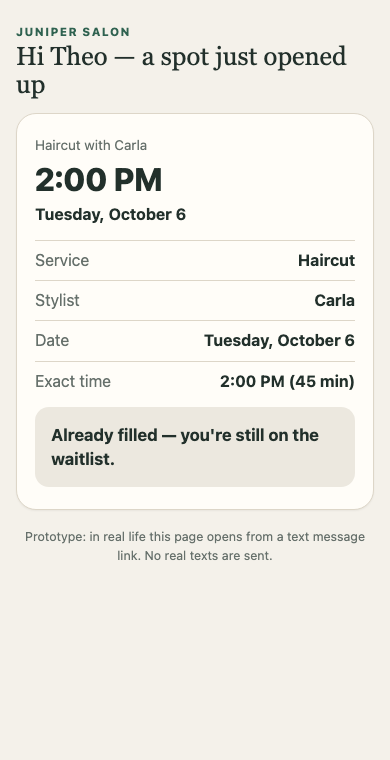
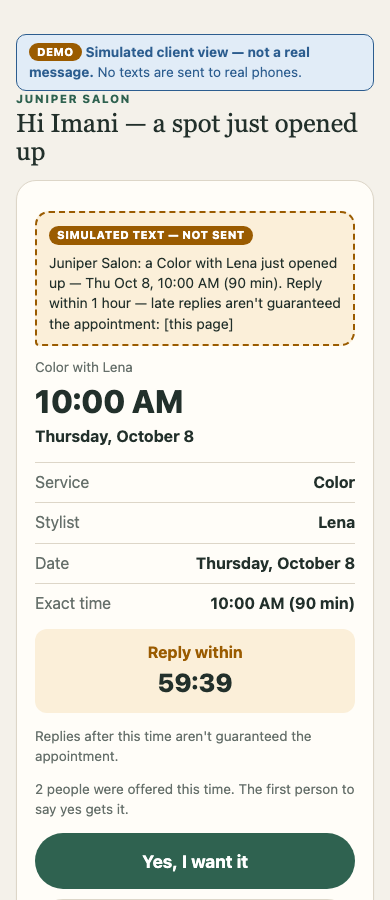
Label every simulated text so it can't be mistaken for a real message
Lena asked that texts be clearly marked during the demo. Every page now
has a Demo banner, the exact offer text is shown in a "Simulated text —
not sent" bubble on the staff card and the client page, and history
entries and Worker logs say the texts are simulated.

diff --git a/src/workflows.ts b/src/workflows.ts
@@ -256,7 +256,7 @@ export async function openingWorkflow(input: OpeningInput): Promise<OpeningState
       s.closedAt = Date.now();
       sendScope?.cancel(); // stop any text still being sent / retried
       log("cancelled", `Staff cancelled the opening${s.cancelReason ? ` (${s.cancelReason})` : ""}${heldFor ? ` — hold for ${heldFor} released` : ""}.`);
-      if (told.length) log("told_cancelled", `Told ${names(told)}: no longer available.`);
+      if (told.length) log("told_cancelled", `Simulated text to ${names(told)}: no longer available.`);
       return { ok: true, message: "Opening cancelled. Anyone holding an offer is told it's no longer available." };
     },
     {
@@ -478,7 +478,7 @@ export async function openingWorkflow(input: OpeningInput): Promise<OpeningState
     s.currentRound = { number: roundNo, offerIds: offers.map((o) => o.offerId) };
     log("sending", `Round ${roundNo}: sending simulated texts to ${names(offers)}.`);
 
-    let sent: { deliveredAt: number };
+    let sent: { deliveredAt: number; texts?: Record<string, string> };
     const scope = new CancellationScope();
     sendScope = scope;
     try {
@@ -508,6 +508,7 @@ export async function openingWorkflow(input: OpeningInput): Promise<OpeningState
       o.status = "live";
       o.sentAt = sentAt;
       o.deliveredAt = sent.deliveredAt;
+      o.smsText = sent.texts?.[o.offerId];
       o.deadline = deadline;
     }
     s.currentRound = { number: roundNo, offerIds: offers.map((o) => o.offerId), sentAt, deadline };
@@ -519,7 +520,7 @@ export async function openingWorkflow(input: OpeningInput): Promise<OpeningState
     const noReply = offers.filter((o) => o.status === "live");
     if (noReply.length) {
       noReply.forEach((o) => (o.status = "timed_out"));
-      log("timed_out", `No reply (timed out): ${names(noReply)}. They stay on the waitlist.`);
+      log("timed_out", `No reply (timed out): ${names(noReply)}. Simulated "offer expired" text sent; they stay on the waitlist.`);
       // Not awaited: the next round must not wait on (or race with) the expiry notice.
       background(quick.notifyTimedOut({ opening: s.opening, recipients: noReply.map(({ name, mobile }) => ({ name, mobile })) }));
     } else {
@@ -592,7 +593,7 @@ export async function openingWorkflow(input: OpeningInput): Promise<OpeningState
         ? `Staff booked ${offer.name} from their late yes — slot held for them.`
         : `${offer.name} said YES — slot held for them. Staff to confirm and update Square.`,
     );
-    if (others.length) log("told_filled", `Told ${names(others)}: already filled, still on the waitlist.`);
+    if (others.length) log("told_filled", `Simulated text to ${names(others)}: already filled, still on the waitlist.`);
   }
 
   function releaseHoldNow(by: "staff" | "auto", reason?: string) {

diff --git a/src/activities.ts b/src/activities.ts
@@ -22,6 +22,9 @@ import type {
   Suggestion,
 } from "./types";
 
+/** Every "text" in this prototype is only logged — this label makes that unmistakable. */
+const SIMULATED = "[SIMULATED TEXT — NOT SENT]";
+
 const APP_BASE_URL = process.env.APP_BASE_URL ?? `http://localhost:${process.env.PORT ?? 3000}`;
 
 async function waitlistHandle() {
@@ -64,28 +67,30 @@ export async function sendOfferTexts(input: {
   opening: OpeningInput;
   offers: OfferText[];
   simulateFailure: boolean;
-}): Promise<{ deliveredAt: number }> {
+}): Promise<{ deliveredAt: number; texts: Record<string, string> }> {
   const { attempt } = Context.current().info;
   if (input.simulateFailure && attempt === 1) {
     throw ApplicationFailure.retryable("Simulated SMS gateway hiccup on the first attempt", "SimulatedSmsFailure");
   }
   const { opening } = input;
+  const texts: Record<string, string> = {};
   for (const o of input.offers) {
     const text =
       `Juniper Salon: a ${opening.service} with ${opening.stylist} just opened up — ${formatSlot(opening.startsAt)} ` +
       `(${opening.durationMinutes} min). Reply within ${formatWindowSeconds(opening.replyWindowSeconds)} — ` +
       `late replies aren't guaranteed the appointment: ` +
       offerLink(opening.openingId, o.clientId, o.token);
-    log.info(`SMS to ${o.name} ${o.mobile} (attempt ${attempt}): ${text}`);
-    console.log(`[sms] SMS to ${o.name} ${o.mobile}: ${text}`);
+    texts[o.offerId] = text;
+    log.info(`${SIMULATED} to ${o.name} ${o.mobile} (attempt ${attempt}): ${text}`);
+    console.log(`${SIMULATED} to ${o.name} ${o.mobile}: ${text}`);
   }
-  return { deliveredAt: Date.now() };
+  return { deliveredAt: Date.now(), texts };
 }
 
 type Recipients = { opening: OpeningInput; recipients: { name: string; mobile: string }[] };
 
 function sms(recipients: Recipients["recipients"], text: string) {
-  for (const r of recipients) console.log(`[sms] SMS to ${r.name} ${r.mobile}: ${text}`);
+  for (const r of recipients) console.log(`${SIMULATED} to ${r.name} ${r.mobile}: ${text}`);
 }
 
 export async function notifyFilled({ opening, recipients }: Recipients): Promise<void> {
@@ -109,7 +114,7 @@ export async function notifyHoldReleased({ opening, recipients }: Recipients): P
 
 /** SIMULATED text to the salon phone, so Lena/Carla hear about it while they're with a client. */
 export async function notifyStaff({ text }: { opening: OpeningInput; text: string }): Promise<void> {
-  console.log(`[sms] SMS to salon phone (staff): Juniper refill: ${text} ${APP_BASE_URL}/`);
+  console.log(`${SIMULATED} to salon phone (staff): Juniper refill: ${text} ${APP_BASE_URL}/`);
 }
 
 /** Tell the waitlist Workflow this client is booked (first booking wins). */

diff --git a/public/app.js b/public/app.js
@@ -224,6 +224,13 @@ function renderApproval(id, s) {
     </div>`;
 }
 
+/** The exact offer text (link shortened), clearly marked as simulated — nothing is really sent. */
+function simText(offer) {
+  if (!offer?.smsText) return "";
+  const text = offer.smsText.replace(/https?:\/\/\S+/, "[offer link]");
+  return `<div class="sms-bubble"><span class="sim-label">Simulated text — not sent</span><p>${esc(text)}</p></div>`;
+}
+
 function renderOffering(id, s) {
   const round = s.currentRound;
   const roundOffers = round ? s.offers.filter((o) => round.offerIds.includes(o.offerId)) : [];
@@ -240,11 +247,12 @@ function renderOffering(id, s) {
             <span class="small muted">${o.status === "live" ? "No reply yet" : esc(o.status.replace("_", " "))}</span></span>
           <span class="row">
             ${o.status === "live" && o.deadline ? `<span class="countdown" data-deadline="${o.deadline}">${countdownText(o.deadline)}</span>` : ""}
-            ${o.status === "live" ? `<a class="btn secondary small" href="${offerUrl(id, o)}" target="_blank" rel="noopener">Open client offer</a>` : ""}
+            ${o.status === "live" ? `<a class="btn secondary small" href="${offerUrl(id, o)}" target="_blank" rel="noopener">Preview client's text</a>` : ""}
           </span>
         </div>`,
         )
         .join("")}
+      ${simText(roundOffers.find((o) => o.smsText))}
       ${round?.deadline ? `<p class="tiny muted" style="margin:6px 0 0">Reply by ${esc(clock(round.deadline))}${s.opening.fastDemo ? " · Fast demo (30-second window)" : ""}. First yes wins.</p>` : ""}
       <p class="small muted" style="margin:6px 0 0">Next up: ${nextUp.length ? esc(nextUp.join(", ")) : "nobody — this is the last round"}</p>
     </div>`;

diff --git a/tests/workflow.test.ts b/tests/workflow.test.ts
@@ -79,7 +79,7 @@ const mockActivities: typeof realActivities = {
   async sendOfferTexts({ opening, offers }) {
     if (gates.send) await gates.send;
     recorded.sent.push({ openingId: opening.openingId, clientIds: offers.map((o) => o.clientId) });
-    return { deliveredAt: Date.now() };
+    return { deliveredAt: Date.now(), texts: Object.fromEntries(offers.map((o) => [o.offerId, `SIM text for ${o.name}`])) };
   },
   async notifyFilled({ opening, recipients }) {
     recorded.filledNotices.push({ openingId: opening.openingId, names: recipients.map((r) => r.name) });
@@ -640,7 +640,8 @@ describe("sendOfferTexts activity (simulated SMS)", () => {
     const attempt1 = new MockActivityEnvironment({ attempt: 1 });
     await assert.rejects(attempt1.run(sendOfferTexts, { opening, offers: [offer], simulateFailure: true }), /Simulated SMS/);
     const attempt2 = new MockActivityEnvironment({ attempt: 2 });
-    const ok: { deliveredAt: number } = await attempt2.run(sendOfferTexts, { opening, offers: [offer], simulateFailure: true });
+    const ok: { deliveredAt: number; texts: Record<string, string> } = await attempt2.run(sendOfferTexts, { opening, offers: [offer], simulateFailure: true });
+    assert.match(ok.texts[offer.offerId], /late replies aren't guaranteed/);
     assert.equal(typeof ok.deliveredAt, "number");
   });
 });

diff --git a/public/styles.css b/public/styles.css
@@ -190,3 +190,10 @@ button.danger-solid { background: var(--danger); color: #fff; }
 .badge.danger { background: var(--danger-soft); color: var(--danger); }
 .danger-text { color: var(--danger); }
 .late-yes h3 { color: var(--warn); }
+
+/* ---------- simulated-text labelling (Lena: nobody should mistake these for real messages) ---------- */
+.sim-banner { position: sticky; top: 0; z-index: 5; border: 1px solid currentColor; }
+.sim-label { display: inline-block; padding: 1px 8px; border-radius: 999px; background: var(--warn); color: #fff; font-size: 0.7rem; font-weight: 800; letter-spacing: 0.04em; text-transform: uppercase; vertical-align: 1px; }
+.sms-bubble { margin: 8px 0 12px; padding: 10px 12px; border-radius: 14px 14px 14px 4px; border: 2px dashed var(--warn); background: var(--warn-soft); }
+.sms-bubble p { margin: 6px 0 0; font-size: 0.88rem; }
+@media (prefers-color-scheme: dark) { .sim-label { color: #1d1a14; } }

diff --git a/src/offerView.ts b/src/offerView.ts
@@ -16,6 +16,8 @@ export type ClientOfferView =
       durationMinutes: number;
       deadline?: number;
       fastDemo: boolean;
+      /** Exact wording of the simulated text that "brought" the client here. */
+      smsText?: string;
       /** How many people were offered this round (the "first yes wins" line only shows when > 1). */
       roundSize: number;
       canRespond: boolean;
@@ -38,6 +40,7 @@ export function clientOfferView(state: OpeningState, clientId: string, token: st
     durationMinutes: state.opening.durationMinutes,
     deadline: offer.deadline,
     fastDemo: state.opening.fastDemo,
+    smsText: offer.smsText,
     roundSize: state.offers.filter((o) => o.round === offer.round).length,
   };
   const done = (outcome: RespondOutcome | "filled_notice", message: string) => ({ ...base, canRespond: false, outcome, message });

diff --git a/public/offer.html b/public/offer.html
@@ -10,12 +10,13 @@
   </head>
   <body class="offer-page">
     <main>
+      <p class="sim-banner" role="note"><span class="sim-label">Demo</span> <strong>Simulated client view — not a real message.</strong> No texts are sent to real phones.</p>
       <p class="eyebrow">Juniper Salon</p>
       <h1 id="greeting">A spot just opened up</h1>
       <section class="offer-card" id="card" aria-live="polite">
         <p class="muted">Loading your offer…</p>
       </section>
-      <p class="demo-note">Prototype: in real life this page opens from a text message link. No real texts are sent.</p>
+      <p class="demo-note">Prototype: in real life this page would open from the text message link. No real texts are sent.</p>
     </main>
     <script src="/offer.js"></script>
   </body>

diff --git a/public/index.html b/public/index.html
@@ -22,7 +22,7 @@
         </div>
       </header>
 
-      <p class="sim-banner" role="note"><strong>Texts are simulated</strong> — nothing is sent to real phones. Use <em>Open client offer</em> on an opening to act as the client. Staff alerts are simulated too (see each opening's history).</p>
+      <p class="sim-banner" role="note"><span class="sim-label">Demo</span> <strong>Every text in this prototype is simulated — nothing is sent to real phones.</strong> Texts appear on screen marked <span class="sim-label">Simulated text</span>. Use <em>Preview client's text</em> to act as the client.</p>
 
       <section class="tiles" id="tiles" aria-label="Summary"></section>
 

diff --git a/public/offer.js b/public/offer.js
@@ -58,7 +58,11 @@ function render() {
   const expiredLocally = view.canRespond && left === 0;
   const message = lastResult?.message ?? view.message;
   const outcome = lastResult?.outcome ?? view.outcome;
+  const sms = view.smsText
+    ? `<div class="sms-bubble"><span class="sim-label">Simulated text — not sent</span><p>${esc(view.smsText.replace(/https?:\/\/\S+/, "[this page]"))}</p></div>`
+    : "";
   card.innerHTML = `
+    ${sms}
     <div class="muted small">${esc(view.service)} with ${esc(view.stylist)}</div>
     <div class="offer-time">${esc(time)}</div>
     <div><strong>${esc(date)}</strong></div>

diff --git a/src/types.ts b/src/types.ts
@@ -119,6 +119,8 @@ export type Offer = {
   status: OfferStatus;
   createdAt: number;
   deliveredAt?: number;
+  /** Exact wording of the SIMULATED offer text (nothing is really sent). */
+  smsText?: string;
   sentAt?: number;
   deadline?: number;
   respondedAt?: number;

diff --git a/README.md b/README.md
@@ -27,7 +27,7 @@ Press **Ctrl+C** to stop the app, and run `npm run stop` to stop Temporal. Tempo
 
 1. **Create an opening.** Click **Open form** and enter a Haircut with Lena later today, with the reply window set to **Fast demo: 30 seconds**.
 2. **Approve the matches.** The system suggests people who want that service, accept that stylist, and whose availability note roughly fits, earliest joiner first. Each note is shown exactly as staff wrote it, and anything the system can't interpret is marked **Check note**. Untick anyone, then click **Approve & text**. **Nothing is sent before approval.**
-3. **Reply as a client.** Click **Open client offer** to see the page a client would open from the text: service, stylist, date, exact time and a countdown, with **Yes, I want it** and **No thanks** buttons.
+3. **Reply as a client.** Click **Preview client's text** to see the page a client would open from the text: the text itself, then the service, stylist, date, exact time and a countdown, with **Yes, I want it** and **No thanks** buttons.
 4. **Race two yeses.** Open two clients' offers and accept both. The first yes **holds** the slot. The other client sees "Sorry, this time was just taken," and everyone else in that round is told it's filled and that they're still on the waitlist.
 5. **Confirm in Square.** The card now reads **Held for … — confirm in Square**. Click **Done — updated in Square**, or **Couldn't confirm — release hold** to move on to the next people. If nobody does either within **15 minutes**, the hold is released automatically.
 6. **Let it time out.** Leave a fast-demo round unanswered. The people in it are marked **No reply** and the next people are texted automatically. When nobody is left, the card turns red: **Nobody took it**, with **Keep trying** and **Leave it open** buttons.
@@ -55,6 +55,7 @@ Two other options: **Simulate first text attempt failing** shows a failed send b
 | If nobody takes it, she wants to know right away and then decide. | **Nobody took it** alert with **Keep trying** and **Leave it open**. |
 | Square stays the real calendar, and nothing books automatically. | A yes only *holds* the slot. Staff confirm and update Square themselves. |
 | If a hold can't be confirmed, release it and offer it to the next person, automatically after about 15 minutes. | **Release hold** button, plus an automatic release after 15 minutes. |
+| Simulated texts must be clearly labelled during the demo, so nobody mistakes them for real messages. | Every page has a **Demo** banner, and each message appears in a dashed bubble marked **Simulated text — not sent**. The history and Worker logs say "simulated" too. |
 | Lena and Carla are usually with clients when a cancellation comes in. | Simulated texts to the salon phone, a "needs you" count in the tab title, optional browser alerts, and a phone-friendly layout. |
 | Success means refilling at least half of cancellations, up from about 3 in 10. | A refill-rate tile compared against the ~30% baseline and the 50% goal. It counts only openings confirmed in Square, and it's labelled as prototype data. |
 
@@ -94,7 +95,7 @@ The flow was also checked live against the Docker Temporal server. Screenshots a
 
 ## What's simulated, and what's next
 
-- **No real texts are sent.** Texts are logged by an Activity, and **Open client offer** stands in for the text link. A pilot would need an SMS provider sending from the salon number, plus opt-out handling on that provider.
+- **No real texts are sent.** Texts are logged by an Activity and shown on screen marked **Simulated text — not sent**. **Preview client's text** stands in for the text link. A pilot would need an SMS provider sending from the salon number, plus opt-out handling on that provider.
 - **No Google Sheets or Square connection.** The waitlist is sample data, and Square stays manual, as Lena asked.
 - **Local only.** There is no staff login, and the offer links are local. Real use needs authentication and secure public offer links.
 - **Refill rate is illustrative.** It reflects only the openings in this prototype and doesn't prove the 50% goal.

diff --git a/evidence/README.md b/evidence/README.md
@@ -11,5 +11,5 @@ All names and phone numbers are fictional sample data.
   6. two `respond` Updates that raced, with exactly one winner;
   7. the 15-minute hold timer;
   8. `markSquareDone`.
-- `staff-dashboard.png`: the staff dashboard. It shows one opening that nobody took, with **Keep trying** and **Leave it open** buttons, and one filled opening. It also shows the refill rate against Lena's 50% goal, and the waitlist with notes exactly as staff wrote them.
-- `client-offer-phone.png`: the client's phone page after another client took the slot. It says "Already filled — you're still on the waitlist."
+- `staff-dashboard.png`: the staff dashboard during a round of offers. It shows the **Demo** banner, the two people holding the offer with their countdowns, and the exact offer text in a bubble marked **Simulated text — not sent**. It also shows the refill rate against Lena's 50% goal, and the waitlist with notes exactly as staff wrote them.
+- `client-offer-phone.png`: the client's phone page. It's labelled as a simulated client view, shows the simulated text that would have led there, and has a countdown, a note that late replies aren't guaranteed the appointment, and **Yes** / **No** buttons.
